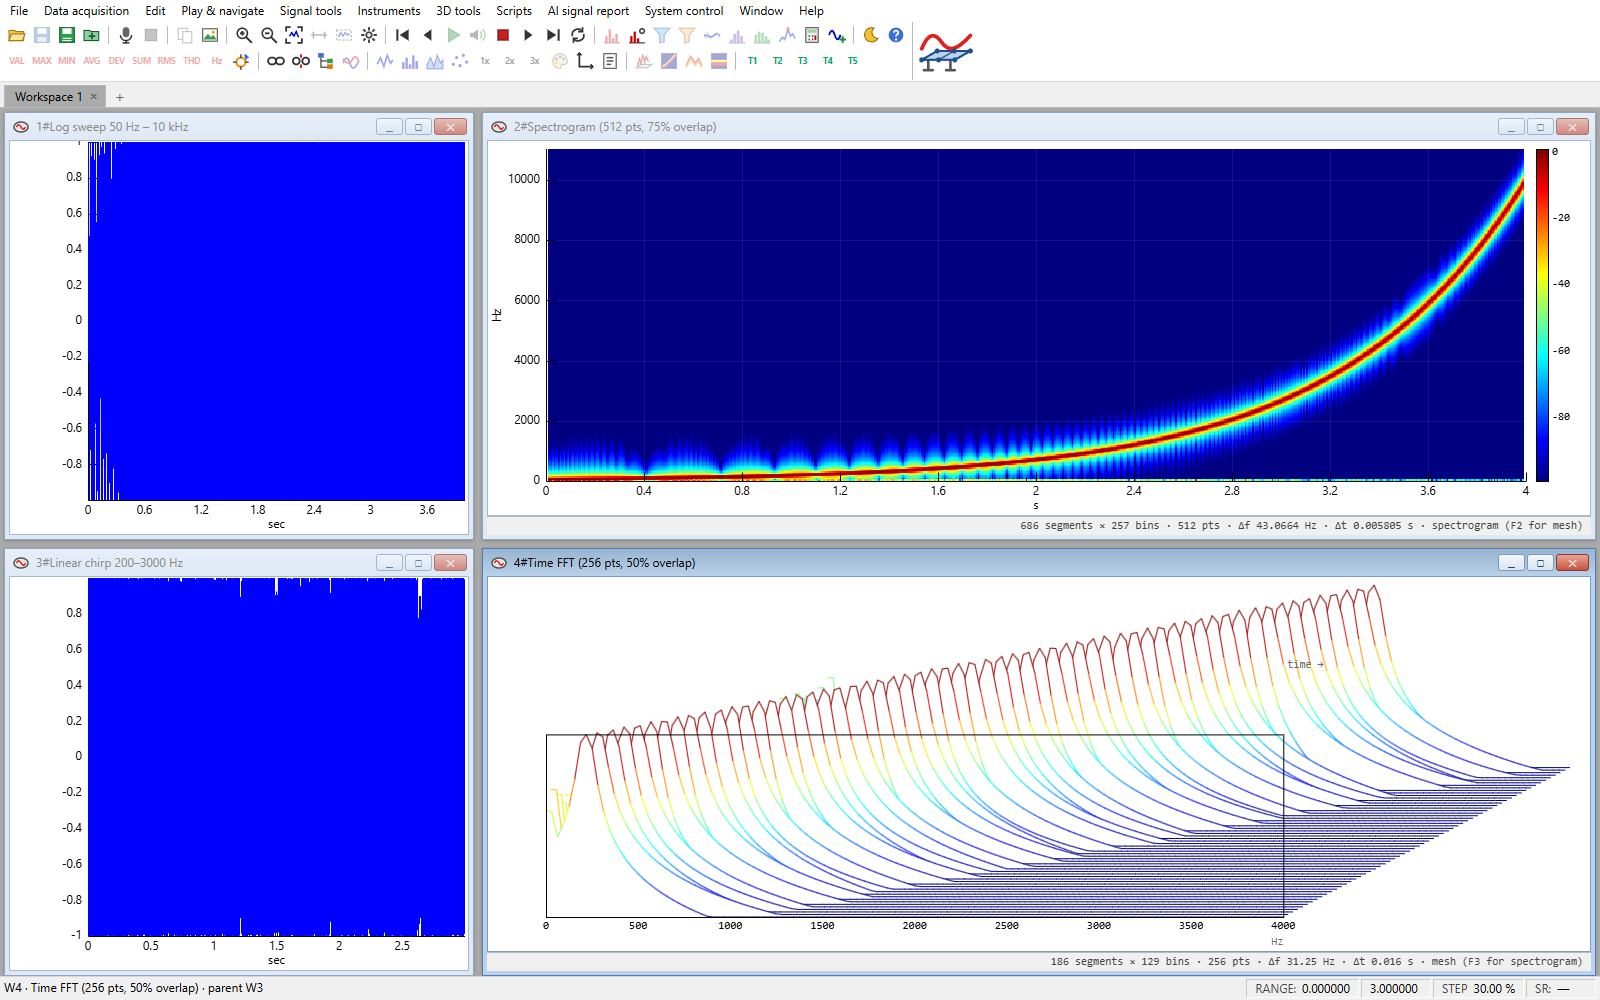
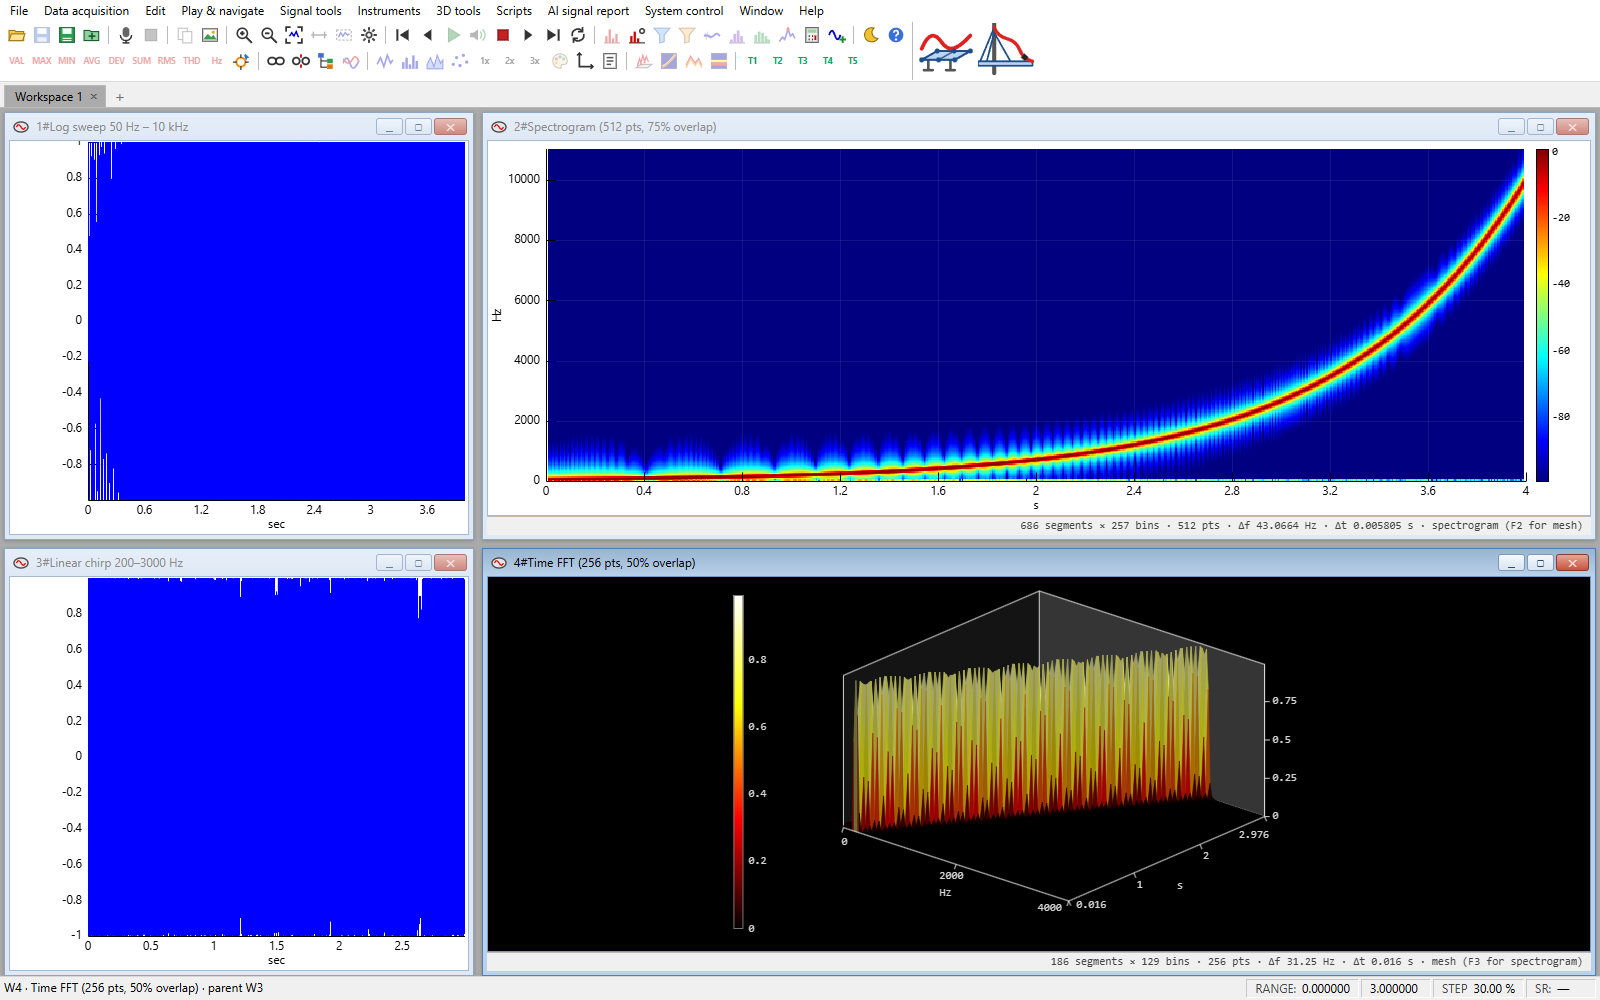
Draw the time FFT mesh as a shaded surface in a 3D box
The mesh view (F2) now shows the spectra as a shaded surface on
black, seen from the corner of the highest frequency and the first
time: two grey back walls and a frame, cells drawn from the back to
the front in the palette's colours and lit from above, the near sides
down to the floor, frequency and time scales on the front edges with
their exact end values, the level on the right corner and the colour
map beside the box. The grid keeps every peak (each cell the maximum
of the lines it stands for).

It shows the linear amplitude, with 3D tools > Mesh level in dB to
switch; new time FFT windows use the Hot palette.

Changed region(s): [[0.2812, 0.558, 1.0, 0.961], [0.5938, 0.031, 0.6562, 0.093]]

diff --git a/opensig/js/plot.js b/opensig/js/plot.js
@@ -447,41 +447,111 @@
     return { rect: r, ax, ay };
   }
 
-  // Waterfall / mesh pseudo-3D: rows drawn back-to-front with an oblique offset.
+  // Time FFT (mesh) view: the spectra as a shaded surface in a 3D box, on black – frequency along the front left edge,
+  // time along the front right one, the level up and in the palette's colours – drawn from the back to the front, with
+  // two grey back walls, the colour map on the left and the level axis on the right corner. The grid has at most 72 rows
+  // and 180 columns, each the maximum of the lines it stands for, so no peak is lost. Linear amplitude unless opt.db.
+  // opt: {sg, view: {x0, x1 (time), y0, y1 (frequency)}, zRange (dB), zFixed, db, palette, invert, enhanceLow, colorbar,
+  // xLabel, yLabel, yaw, pitch (degrees)}
   function drawWaterfall(ctx, w, h, th, opt) {
-    ctx.fillStyle = th.plotBg; ctx.fillRect(0, 0, w, h);
-    const sg = opt.sg, r = layout(w, h, Object.assign({}, opt, { rightPad: 20 }));
-    if (!sg || !sg.rows.length) return { rect: r };
-    const rows = sg.rows, maxRows = Math.min(rows.length, opt.maxRows || 60), stride = rows.length / maxRows;
-    const depthX = r.w * 0.28, depthY = r.h * 0.45, fw = r.w - depthX, fh = r.h - depthY;
-    const [zlo, zhi] = opt.zRange, f0 = opt.view.y0, f1 = opt.view.y1, L = lut(opt.palette, opt.invert);
-    const k0 = Math.max(0, Math.floor((f0 - (sg.f0 || 0)) / sg.df)), k1 = Math.min(sg.bins - 1, Math.ceil((f1 - (sg.f0 || 0)) / sg.df));
-    const step = Math.max(1, Math.floor((k1 - k0) / fw));
-    for (let j = maxRows - 1; j >= 0; j--) {
-      const row = rows[Math.floor(j * stride)].v, d = j / Math.max(1, maxRows - 1);
-      const ox = r.x + d * depthX, oy = r.y + depthY - d * depthY + fh;
-      const pts = [];
-      for (let k = k0; k <= k1; k += step) {
-        const z = Math.max(0, Math.min(1, (row[k] - zlo) / (zhi - zlo)));
-        pts.push([ox + (k - k0) / Math.max(1, k1 - k0) * fw, oy - z * fh, z]);
+    const INK = '#d4d4d4', sg = opt.sg;
+    ctx.fillStyle = '#000'; ctx.fillRect(0, 0, w, h);
+    if (!sg || !sg.rows.length) return { rect: { x: 0, y: 0, w, h } };
+    const sf0 = sg.f0 || 0, lin = !opt.db;
+    let rows = sg.rows.filter(rw => rw.t >= opt.view.x0 && rw.t <= opt.view.x1);
+    if (rows.length < 2) rows = sg.rows;
+    const k0 = Math.max(0, Math.floor((opt.view.y0 - sf0) / sg.df)), k1 = Math.max(k0 + 1, Math.min(sg.bins - 1, Math.ceil((opt.view.y1 - sf0) / sg.df)));
+    const NC = Math.min(180, k1 - k0 + 1), NR = Math.max(2, Math.min(72, rows.length));
+    const grid = [];
+    for (let j = 0; j < NR; j++) {
+      const ra = Math.floor(j * rows.length / NR), rb = Math.max(ra + 1, Math.floor((j + 1) * rows.length / NR)), g = new Float64Array(NC);
+      for (let i = 0; i < NC; i++) {
+        const ka = k0 + Math.floor(i * (k1 - k0 + 1) / NC), kb = Math.max(ka + 1, k0 + Math.floor((i + 1) * (k1 - k0 + 1) / NC));
+        let m = -Infinity; for (let rr = ra; rr < rb && rr < rows.length; rr++) { const v = rows[rr].v; for (let k = ka; k < kb; k++) if (v[k] > m) m = v[k]; }
+        g[i] = lin ? Math.pow(10, m / 20) : m;
       }
-      // hide rows behind this one, then stroke each segment in the palette colour of its level
-      ctx.beginPath(); ctx.moveTo(ox, oy);
-      for (const p of pts) ctx.lineTo(p[0], p[1]);
-      ctx.lineTo(ox + fw, oy); ctx.closePath(); ctx.fillStyle = th.plotBg; ctx.fill();
-      for (let i = 1; i < pts.length; i++) {
-        const c = Math.round(Math.max(pts[i - 1][2], pts[i][2]) * 255) * 3;
-        ctx.strokeStyle = `rgb(${L[c]},${L[c + 1]},${L[c + 2]})`;
-        ctx.beginPath(); ctx.moveTo(pts[i - 1][0], pts[i - 1][1]); ctx.lineTo(pts[i][0], pts[i][1]); ctx.stroke();
-      }
+      grid.push(g);
     }
-    ctx.strokeStyle = th.axis; ctx.strokeRect(r.x + 0.5, r.y + depthY + 0.5, fw, fh);
-    ctx.fillStyle = th.text; ctx.font = th.font; ctx.textAlign = 'center'; ctx.textBaseline = 'top';
-    for (const v of niceTicks(f0, f1, Math.max(2, Math.floor(fw / 80)))) ctx.fillText(fmt(v, f1 - f0), r.x + (v - f0) / (f1 - f0) * fw, r.y + r.h + 4);
-    ctx.textAlign = 'left'; ctx.fillStyle = th.muted;
-    ctx.fillText('time →', r.x + fw + 4, r.y + depthY / 2);
-    if (opt.yLabel) { ctx.textAlign = 'right'; ctx.fillText(opt.yLabel, r.x + fw, r.y + r.h + 20); }
-    return { rect: r };
+    let zlo = opt.zRange[0], zhi = opt.zRange[1];
+    if (lin) { zlo = 0; zhi = opt.zFixed ? Math.pow(10, opt.zRange[1] / 20) : Math.max(...grid.map(g => Math.max(...g))); }
+    if (!(zhi > zlo)) zhi = zlo + 1;
+    const fa = sf0 + k0 * sg.df, fb = sf0 + k1 * sg.df, ta = rows[0].t, tb = rows[rows.length - 1].t;
+    const lvl = v => Math.max(0, Math.min(1, (v - zlo) / (zhi - zlo))), col = z => opt.enhanceLow ? Math.sqrt(z) : z;
+    // orthographic view from the front corner (high frequency, first time): u = frequency, v = time, z = level, all 0…1
+    const yaw = (opt.yaw ?? 41) * Math.PI / 180, pitch = (opt.pitch ?? 22) * Math.PI / 180, HZ = 0.55;
+    const cy = Math.cos(yaw), sy = Math.sin(yaw), cp = Math.cos(pitch), sp = Math.sin(pitch);
+    const depth = (u, v) => -(u - 0.5) * sy + (v - 0.5) * cy; // larger = farther
+    const P0 = (u, v, z) => [(u - 0.5) * cy + (v - 0.5) * sy, -z * HZ * cp - depth(u, v) * sp];
+    let mnx = Infinity, mxx = -Infinity, mny = Infinity, mxy = -Infinity;
+    for (const u of [0, 1]) for (const v of [0, 1]) for (const z of [0, 1]) { const p = P0(u, v, z); mnx = Math.min(mnx, p[0]); mxx = Math.max(mxx, p[0]); mny = Math.min(mny, p[1]); mxy = Math.max(mxy, p[1]); }
+    const x0 = (opt.colorbar ? 60 : 10) + 34, x1 = w - 64, y0 = 14, y1 = h - 50;
+    const k = Math.max(1, Math.min((x1 - x0) / (mxx - mnx), (y1 - y0) / (mxy - mny)));
+    const ox = (x0 + x1) / 2 - k * (mnx + mxx) / 2, oy = (y0 + y1) / 2 - k * (mny + mxy) / 2;
+    const P = (u, v, z) => { const p = P0(u, v, z); return [ox + k * p[0], oy + k * p[1]]; };
+    const path = pts => { ctx.beginPath(); pts.forEach((p, i) => i ? ctx.lineTo(p[0], p[1]) : ctx.moveTo(p[0], p[1])); ctx.closePath(); };
+    const line = (a, b) => { ctx.beginPath(); ctx.moveTo(a[0], a[1]); ctx.lineTo(b[0], b[1]); ctx.stroke(); };
+    // the back walls and the frame behind the surface
+    path([P(0, 0, 0), P(0, 1, 0), P(0, 1, 1), P(0, 0, 1)]); ctx.fillStyle = '#141414'; ctx.fill();
+    path([P(0, 1, 0), P(1, 1, 0), P(1, 1, 1), P(0, 1, 1)]); ctx.fillStyle = '#353535'; ctx.fill();
+    ctx.strokeStyle = INK; ctx.lineWidth = 1;
+    for (const [u, v] of [[0, 0], [0, 1], [1, 1]]) line(P(u, v, 0), P(u, v, 1));
+    line(P(0, 0, 1), P(0, 1, 1)); line(P(0, 1, 1), P(1, 1, 1)); line(P(0, 0, 0), P(0, 1, 0)); line(P(0, 1, 0), P(1, 1, 0));
+    // the surface: cells from the farthest to the nearest, coloured by their level and lit from above and the front left
+    const L = lut(opt.palette, opt.invert), du = 1 / (NC - 1 || 1), dv = 1 / (NR - 1);
+    const lx = 0.5 * sy - 0.35 * cy, ly = -0.5 * cy - 0.35 * sy, lz = 0.8, ln = Math.hypot(lx, ly, lz);
+    const Z = grid.map(g => Array.from(g, lvl)), cells = [];
+    for (let j = 0; j < NR - 1; j++) for (let i = 0; i < Math.max(1, NC - 1); i++) cells.push([i, j, depth((i + 0.5) * du, (j + 0.5) * dv)]);
+    cells.sort((a, b) => b[2] - a[2]);
+    const rgb = (z, s) => { const c = Math.round(col(z) * 255) * 3; return `rgb(${L[c] * s | 0},${L[c + 1] * s | 0},${L[c + 2] * s | 0})`; };
+    ctx.lineWidth = 0.6; ctx.lineJoin = 'round';
+    for (const [i, j] of cells) {
+      const i1 = Math.min(i + 1, NC - 1), a = Z[j][i], b = Z[j][i1], c = Z[j + 1][i1], d = Z[j + 1][i];
+      const gu = (b + c - a - d) / 2 * HZ / du, gv = (d + c - a - b) / 2 * HZ / dv, n = Math.hypot(gu, gv, 1);
+      const s = 0.4 + 0.6 * Math.max(0, (-gu * lx - gv * ly + lz) / (n * ln));
+      const fill = rgb(((a + b + c + d) / 4 + Math.max(a, b, c, d)) / 2, s); // between its mean and its top: narrow peaks keep their colour
+      path([P(i * du, j * dv, a), P(i1 * du, j * dv, b), P(i1 * du, (j + 1) * dv, c), P(i * du, (j + 1) * dv, d)]);
+      ctx.fillStyle = fill; ctx.fill(); ctx.strokeStyle = fill; ctx.stroke();
+    }
+    // the near sides down to the floor: the first spectrum (front) and the highest frequency (right)
+    for (let i = 0; i < NC - 1; i++) { path([P(i * du, 0, Z[0][i]), P((i + 1) * du, 0, Z[0][i + 1]), P((i + 1) * du, 0, 0), P(i * du, 0, 0)]); const f = rgb((Z[0][i] + Z[0][i + 1]) / 2, 0.42); ctx.fillStyle = f; ctx.fill(); ctx.strokeStyle = f; ctx.stroke(); }
+    for (let j = 0; j < NR - 1; j++) { const a = Z[j][NC - 1], b = Z[j + 1][NC - 1]; path([P(1, j * dv, a), P(1, (j + 1) * dv, b), P(1, (j + 1) * dv, 0), P(1, j * dv, 0)]); const f = rgb((a + b) / 2, 0.3); ctx.fillStyle = f; ctx.fill(); ctx.strokeStyle = f; ctx.stroke(); }
+    // the front edges with their scales, and the level axis on the right corner
+    ctx.strokeStyle = INK; ctx.lineWidth = 1; ctx.fillStyle = INK; ctx.font = th.font;
+    const C = P(0.5, 0.5, 0);
+    const edge = (A, B, lo, hi, title) => {
+      line(A, B);
+      const ex = B[0] - A[0], ey = B[1] - A[1], len = Math.hypot(ex, ey), mx = (A[0] + B[0]) / 2, my = (A[1] + B[1]) / 2;
+      let nx = -ey / len, ny = ex / len; if (nx * (mx - C[0]) + ny * (my - C[1]) < 0) { nx = -nx; ny = -ny; }
+      ctx.textAlign = 'center'; ctx.textBaseline = 'middle';
+      // a tick and its value; the ends' values are moved along the edge, off the corner the next edge shares
+      const mark = (t, text, along = 0) => {
+        const q = (t - lo) / (hi - lo), px = A[0] + q * ex, py = A[1] + q * ey, sh = along * (ctx.measureText(text).width / 2 + 3) / len;
+        line([px, py], [px + nx * 5, py + ny * 5]); ctx.fillText(text, px + nx * 15 + sh * ex, py + ny * 13 + sh * ey);
+      };
+      if (hi > lo) { // the two ends with their exact values, and round values between that keep clear of them
+        mark(lo, String(+lo.toPrecision(5)), 1); mark(hi, String(+hi.toPrecision(5)), -1);
+        for (const t of niceTicks(lo, hi, Math.max(2, Math.floor(len / 70)))) if (Math.min(t - lo, hi - t) / (hi - lo) * len > 38) mark(t, fmt(t, hi - lo));
+      }
+      if (title) ctx.fillText(title, mx + nx * 34, my + ny * 30);
+    };
+    edge(P(0, 0, 0), P(1, 0, 0), fa, fb, opt.yLabel || 'Hz');
+    edge(P(1, 0, 0), P(1, 1, 0), ta, tb, opt.xLabel || 's');
+    const zA = P(1, 1, 0), zB = P(1, 1, 1);
+    line(zA, zB); ctx.textAlign = 'left'; ctx.textBaseline = 'middle';
+    for (const t of niceTicks(zlo, zhi, Math.max(2, Math.floor((zA[1] - zB[1]) / 36)))) {
+      const y = zA[1] + (t - zlo) / (zhi - zlo) * (zB[1] - zA[1]);
+      line([zA[0], y], [zA[0] + 5, y]); ctx.fillText(fmt(t, zhi - zlo), zA[0] + 8, y);
+    }
+    if (!lin) { ctx.textBaseline = 'bottom'; ctx.fillText('dB', zB[0] + 8, zB[1] - 6); }
+    // the colour map
+    if (opt.colorbar) {
+      const bx = Math.max(12, ox + k * mnx - 110), bw = 10, by0 = y0 + 4, by1 = h - 22; // next to the box in a wide window
+      for (let y = by0; y < by1; y++) { ctx.fillStyle = rgb(1 - (y - by0) / (by1 - by0), 1); ctx.fillRect(bx, y, bw, 1); }
+      ctx.strokeStyle = '#777'; ctx.strokeRect(bx + 0.5, by0 + 0.5, bw - 1, by1 - by0 - 1);
+      ctx.fillStyle = INK; ctx.textAlign = 'left'; ctx.textBaseline = 'middle';
+      for (const t of niceTicks(zlo, zhi, Math.max(2, Math.floor((by1 - by0) / 40)))) ctx.fillText(fmt(t, zhi - zlo), bx + bw + 5, by1 - (t - zlo) / (zhi - zlo) * (by1 - by0));
+    }
+    return { rect: { x: x0, y: y0, w: x1 - x0, h: y1 - y0 } };
   }
 
   /* ---------- Analog gauge for instruments ---------- */

diff --git a/opensig/js/helpdata.js b/opensig/js/helpdata.js
@@ -461,7 +461,7 @@ ${EQ`Z_{jk}=20\log_{10}\frac{c_k\left|X_k^{(j)}\right|}{\sum_nw_n},\qquad c_k=\b
 <p>${M`Z_{jk}`} is drawn at the centre of the segment, ${M`t_j=\left(jh+L/2\right)/f_s`}, and at the frequency ${M`f_k=kf_s/N`}. Dividing by ${M`\sum_nw_n`} makes a sine of amplitude ${M`A`} show as ${M`20\log_{10}A`} dB. Long signals are thinned to at most 2000 evenly spaced segments.</p>
 ${SEE('timefft', 'views3d', 'cursor3d')}`),
       T('timefft', 'Time FFT', ['time FFT', 'mesh', 'waterfall', '3D', 'Ctrl+T'], `
-<p>${P('3D tools', 'Time FFT…')} (${K('Ctrl', 'T')}) calculates the same series of spectra as the ${L('spectrogram')} and shows them as a 3D mesh. ${P('3D tools', 'Time FFT statistics…')} reduces it to the average, minimum or maximum spectrum.</p>
+<p>${P('3D tools', 'Time FFT…')} (${K('Ctrl', 'T')}) calculates the same series of spectra as the ${L('spectrogram')} and shows them as a <b>mesh</b>: a shaded surface in a 3D box, with the frequency along the front left edge, the time along the front right edge and the level upwards and in the palette's colours (Hot for a new time FFT). ${P('3D tools', 'Time FFT statistics…')} reduces it to the average, minimum or maximum spectrum.</p>
 <h2>How it is calculated</h2>
 <p>The mesh is the matrix ${M`Z_{jk}`} of the ${L('spectrogram')}. Time FFT statistics reduces the ${M`J`} segments inside a time range to one spectrum: the energy average, the maximum, the minimum or the standard deviation over ${M`j`}:</p>
 ${EQ`\bar{Z}_k=10\log_{10}\frac{1}{J}\sum_j10^{Z_{jk}/10},\qquad\max_jZ_{jk},\qquad\min_jZ_{jk}`}
@@ -473,7 +473,7 @@ ${EQ`\bar{Z}_k=10\log_{10}\frac{1}{J}\sum_j10^{Z_{jk}/10},\qquad\max_jZ_{jk},\qq
 ${EQ`W_n(f)=\frac{1}{N}\sum_{k=1}^{N/2-1}X_k\,\hat{\psi}_f(\omega_k)\,e^{i2\pi kn/N},\qquad\hat{\psi}_f(\omega)=2\,e^{-\left(s\omega-\omega_0\right)^2/2},\quad s=\frac{\omega_0}{2\pi f},\quad\omega_k=\frac{2\pi kf_s}{N}`}
 <p>is shown in dB, ${M`20\log_{10}\left|W_n(f)\right|`}. In time, the wavelet is a wave of frequency ${M`f`} under a Gaussian envelope with the standard deviation ${M`s`} seconds, so high frequencies get short wavelets. A larger ${M`\omega_0`} (6 by default) gives a finer frequency and a coarser time resolution.</p>`),
       T('views3d', '3D views and palettes', ['mesh view', 'spectrogram view', 'palette', 'colour map', 'Z axis', 'F2', 'F3'], `
-<p>Every 3D window can be shown as a <b>spectrogram</b> (${K('F3')}) or a <b>mesh</b> (${K('F2')}). ${P('3D tools', 'Palette')} chooses one of 13 colour palettes, ${P('3D tools', 'Adjust Z-axis…')} sets the level range, ${P('3D tools', 'Show colour map')} adds the colour scale and ${P('3D tools', 'Invert colours')} reverses it. "Optimize colours for low amplitudes" brings out weak components.</p>`),
+<p>Every 3D window can be shown as a <b>spectrogram</b> (${K('F3')}) or a <b>mesh</b> (${K('F2')}). The mesh is a shaded surface on black, seen from the corner of the highest frequency and the first time: two grey back walls, the frequency and time scales on the front edges (with their exact end values), the level on the right corner and the colour map on the left. It shows the linear amplitude, so the strongest components stand out as peaks; ${P('3D tools', 'Mesh level in dB')} shows it in dB. ${P('3D tools', 'Palette')} chooses one of 13 colour palettes, ${P('3D tools', 'Adjust Z-axis…')} sets the level range, ${P('3D tools', 'Show colour map')} adds the colour scale and ${P('3D tools', 'Invert colours')} reverses it. "Optimize colours for low amplitudes" brings out weak components.</p>`),
       T('cursor3d', '3D cursor and slices', ['3D cursor', 'slice', 'extract', 'Tab'], `
 <p>${K('Tab')} switches on the 3D cursor. ${P('3D tools', 'Extract X-cursor (spectrum at cursor time)')} opens the spectrum at the cursor time as a new window, and ${P('3D tools', 'Extract Y-cursor (level over time at cursor frequency)')} the level of one frequency over time. The slice commands extract at the position of the maximum.</p>
 <p>${P('3D tools', 'Track changes in 3D graphics…')} follows the maximum through the graph, and ${P('3D tools', '3D signal filter…')} keeps only a frequency and time region.</p>`)

diff --git a/opensig/js/ui.js b/opensig/js/ui.js
@@ -353,7 +353,7 @@
       Object.assign(params, { segmentLength: +v.segmentLength, overlap: v.overlap, window: v.window });
       if (v.remember) { S.settings.spectrogram = { segmentLength: params.segmentLength, overlap: params.overlap, window: params.window }; APP.saveSettings(); }
     }
-    APP.derive(w, 'spectrogram', params, { display: { mode: mesh ? 'mesh' : 'spectrogram' } });
+    APP.derive(w, 'spectrogram', params, { display: mesh ? { mode: 'mesh', palette: 'Hot' } : { mode: 'spectrogram' } });
   }
 
   const FILTER_TYPES = [['lowpass', 'Lowpass'], ['highpass', 'Highpass'], ['bandpass', 'Bandpass'], ['bandstop', 'Bandstop']];
@@ -752,7 +752,7 @@
     'Time FFT (mesh view) of a chirp': () => {
       const fs = 8000, y = DSP.generate({ type: 'Sweep signal', sampleRate: fs, seconds: 3, sweepStart: 200, sweepEnd: 3000, sweepType: 'Linear' });
       const s = APP.openSignal(y, fs, 'Linear chirp 200–3000 Hz', { type: 'generator' });
-      APP.derive(s, 'spectrogram', { segmentLength: 256, overlap: 50, window: 'Hann', mesh: true }, { display: { mode: 'mesh' } });
+      APP.derive(s, 'spectrogram', { segmentLength: 256, overlap: 50, window: 'Hann', mesh: true }, { display: { mode: 'mesh', palette: 'Hot' } });
     },
     'Filters (FFT and IIR)': () => {
       const fs = 8000, a = DSP.generate({ type: 'White noise', sampleRate: fs, seconds: 2, seed: 3 });
@@ -942,6 +942,7 @@
       '-',
       { label: 'Spectrogram view', key: 'F3', run: () => { const w = need('3d'); w.display.mode = 'spectrogram'; APP.requestRender(w); }, checked: () => has3D() && S.active.display.mode === 'spectrogram', en: has3D },
       { label: 'Mesh view', key: 'F2', run: () => { const w = need('3d'); w.display.mode = 'mesh'; APP.requestRender(w); }, checked: () => has3D() && S.active.display.mode === 'mesh', en: has3D },
+      { label: 'Mesh level in dB', run: () => { const w = need('3d'); w.display.meshDb = !w.display.meshDb; w.display.mode = 'mesh'; APP.requestRender(w); }, checked: () => has3D() && !!S.active.display.meshDb, en: has3D },
       { label: 'Cursor', key: 'Tab', run: () => { const w = need('3d'); w.display.crosshair = !w.display.crosshair; if (!w.fixedCursor3) w.fixedCursor3 = { x: (w.view.x0 + w.view.x1) / 2, y: (w.view.y0 + w.view.y1) / 2 }; APP.requestRender(w); }, checked: () => has3D() && S.active.display.crosshair, en: has3D },
       { label: 'Adjust Z-axis…', run: axesDialog, en: has3D },
       '-',

diff --git a/opensig/js/app.js b/opensig/js/app.js
@@ -583,7 +583,7 @@
 
   function render3D(w, th, cw, ch) {
     const d = w.data, z = w.display.zFixed || d.zAuto;
-    const opt = { sg: d.sg, view: w.view, zRange: z, palette: w.display.palette, invert: w.display.invert,
+    const opt = { sg: d.sg, view: w.view, zRange: z, zFixed: !!w.display.zFixed, db: !!w.display.meshDb, palette: w.display.palette, invert: w.display.invert,
       colorbar: w.display.colorbar, freqDown: S.settings.freqDown, enhanceLow: w.display.enhanceLow,
       cursor: w.display.crosshair && w.fixedCursor3 ? w.fixedCursor3 : null, xLabel: w.display.xLabel ?? (d.xUnit || 's'), yLabel: w.display.yLabel ?? 'Hz' };
     w.lay = w.display.mode === 'mesh' ? PLOT.drawWaterfall(w.ctx, cw, ch, th, opt) : PLOT.drawSpectrogram(w.ctx, cw, ch, th, opt);

diff --git a/opensig/README.md b/opensig/README.md
@@ -215,7 +215,7 @@ generator writes a `.bat` file built on these commands.
   z-score (lag, threshold, influence); wavelet ridge lines (matches `scipy.signal.find_peaks_cwt`). All can mark
   valleys and refine positions between samples (parabola or Gaussian). Signal tools ▸ Copy detected peaks copies
   X/Y. `test/fixtures/make_peaks_scipy.py` writes the SciPy reference results checked by `test/dsp.test.js`.
-- **3D tools:** spectrogram/mesh views, 13 palettes, cursor, slices, max tracking, 3D filter, time-FFT statistics,
+- **3D tools:** spectrogram/mesh views (the mesh a shaded surface in a 3D box, linear or dB), 13 palettes, cursor, slices, max tracking, 3D filter, time-FFT statistics,
   band level over time, contour plot.
 - **Custom displays:** scatter 2D / 2D+colour / 3D (drag to rotate), orbit, polar, Bode, Bode + Nyquist, box, violin,
   box + violin, corner and correlation plots.
